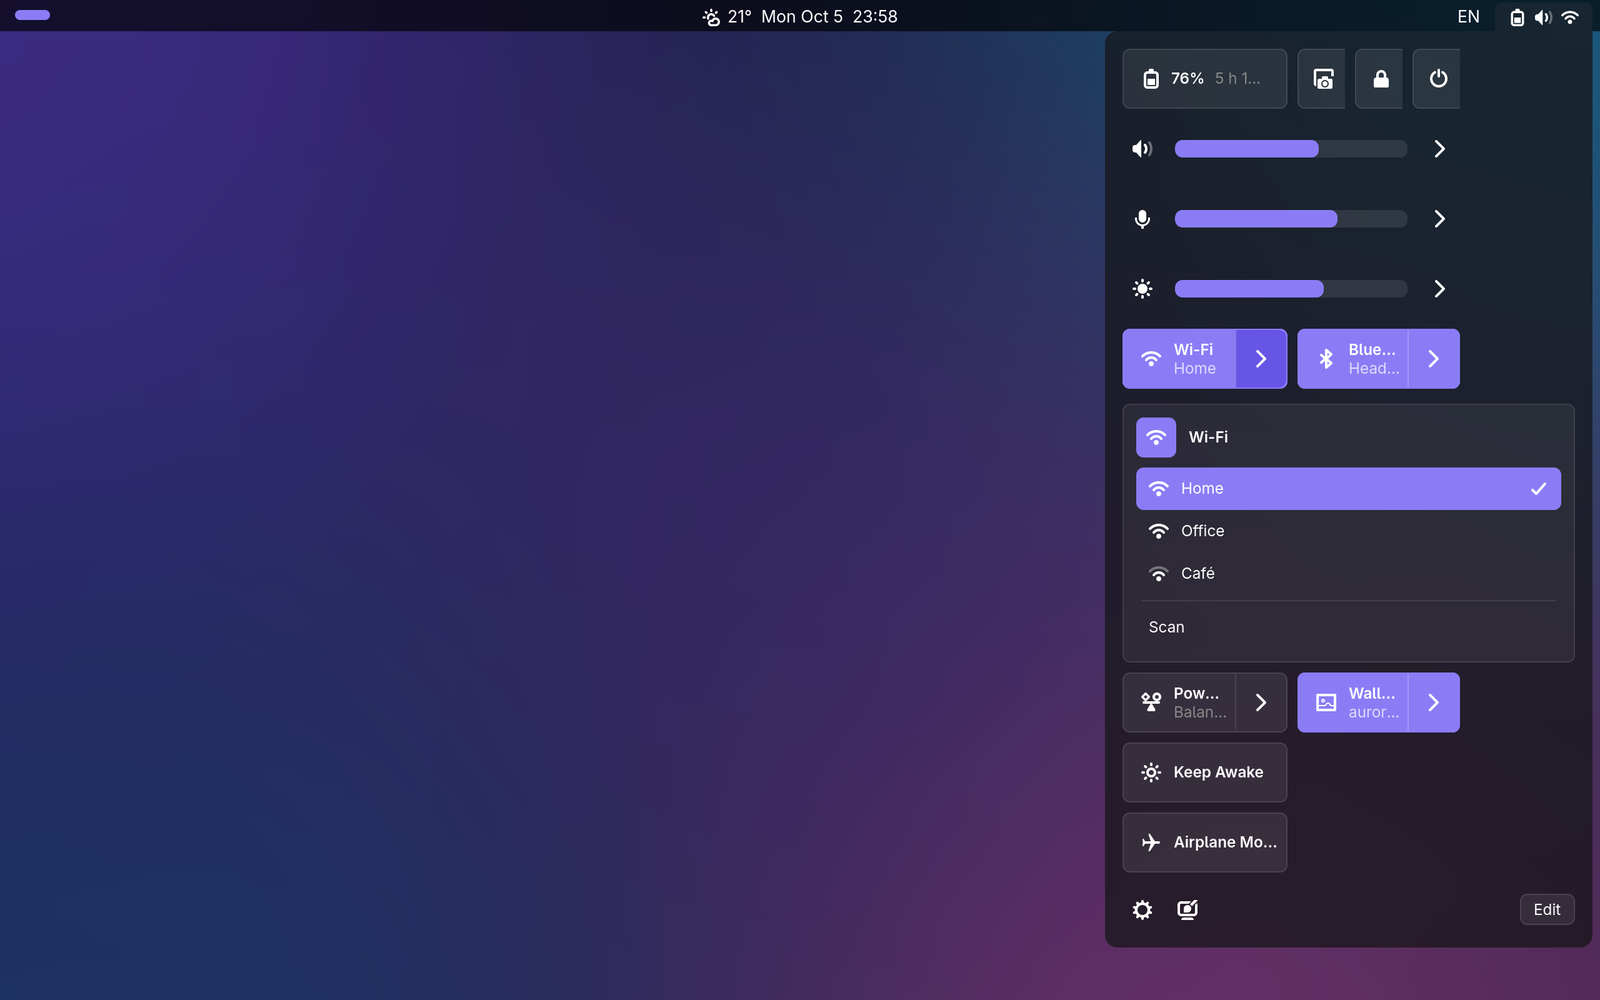
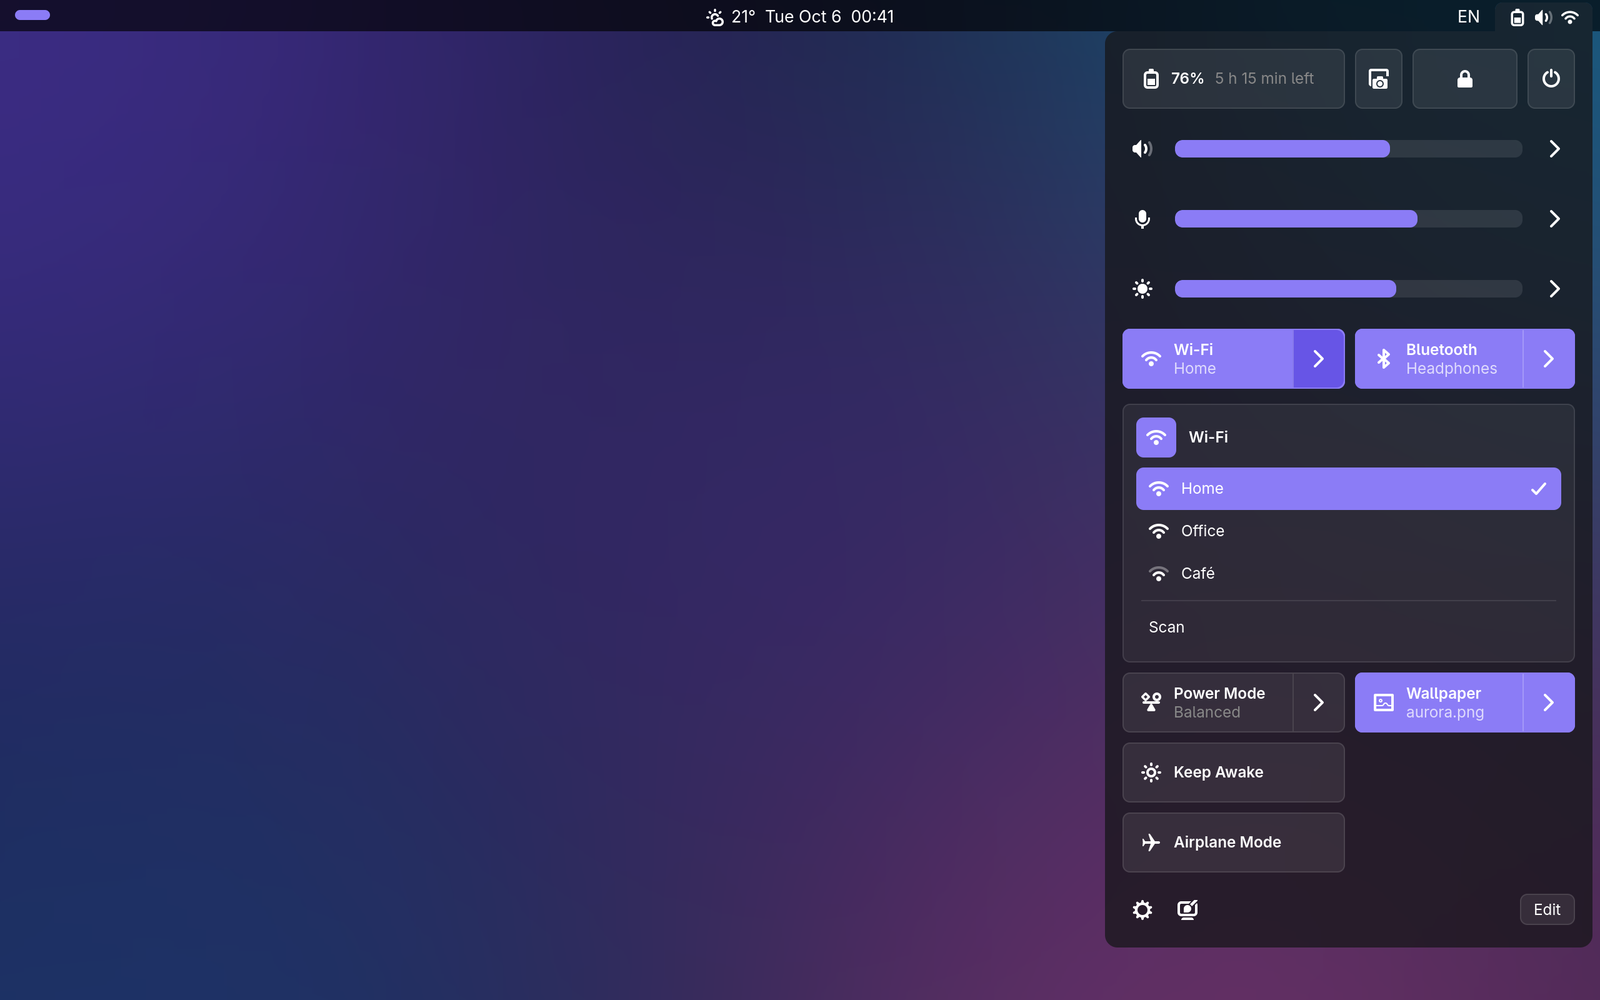
fix(panels): a layout as wide as the panel's cells (a width set no longer taken for its default layout's), Never on the panel, the bar as бар, the bubble over the knob

diff --git a/src/cc/mod.rs b/src/cc/mod.rs
@@ -253,7 +253,6 @@ impl Spec {
                 self.width = w;
                 self.fixed = true;
             }
-            self.cols = c.cols.map_or(self.cols, |n| n.clamp(MIN_COLS, MAX_COLS));
         }
         self
     }
@@ -739,7 +738,8 @@ impl Panel {
         for (b, bx) in &bands {
             fit_band(bx.upcast_ref());
             self.grid.attach(bx, 0, *b as i32 + above(*b, false), self.cols.get() as i32, 1);
-        }    }
+        }
+    }
 
     /// One widget's menu unfolded, the others folded ("" all).
     fn set_open(&self, key: &str) {
@@ -992,19 +992,30 @@ impl Panel {
             });
             line("In the bar", chips.upcast_ref());
         }
-        // on the panel always, or only while its widget is active
+        // on the panel always, only while its widget is active, or never (its badge in the bar alone)
         let has_face = self.tiles.borrow().get(&key).is_some_and(|t| t.widget.face.is_some());
-        if !off && has_face {
-            let now = usize::from(self.lively.borrow().contains(&key));
+        if has_face {
+            let now = if off { 2 } else { usize::from(self.lively.borrow().contains(&key)) };
             let (me, k) = (Rc::downgrade(self), key.clone());
-            let chips = crate::ui::chips(&[t("Always"), t("While active")], Some(now), move |i| {
+            let chips = crate::ui::chips(&[t("Always"), t("While active"), t("Never")], Some(now), move |i| {
                 let Some(p) = me.upgrade() else { return };
-                if i == 1 {
-                    p.lively.borrow_mut().insert(k.clone());
+                let hidden = p.hidden.borrow().iter().any(|h| h.key == k);
+                if i == 2 {
+                    if !hidden {
+                        p.hide(&k);
+                    }
                 } else {
-                    p.lively.borrow_mut().remove(&k);
+                    if hidden {
+                        p.unhide(&k);
+                    }
+                    if i == 1 {
+                        p.lively.borrow_mut().insert(k.clone());
+                    } else {
+                        p.lively.borrow_mut().remove(&k);
+                    }
                 }
-                p.inspect();
+                // still picked, the inspector as it is now
+                p.pick(&k);
             });
             line("On the panel", chips.upcast_ref());
         }
@@ -1035,12 +1046,6 @@ impl Panel {
             });
             crate::ui::flow_in(&acts, &b);
         };
-        let k = key.clone();
-        if off {
-            act("Back on the Panel", Box::new(move |p| p.unhide(&k)));
-        } else if self.tiles.borrow().get(&key).is_some_and(|t| t.widget.face.is_some()) {
-            act("In the Bar Only", Box::new(move |p| p.hide(&k)));
-        }
         let k = key.clone();
         act("Remove", Box::new(move |p| p.remove(&k)));
         self.inspector.append(&acts);

diff --git a/src/popup.rs b/src/popup.rs
@@ -313,17 +313,21 @@ fn hover_tips(host: &Rc<Host>) {
     host.win.add_controller(motion);
 }
 
-/// Over a widget in a bar's window (a slider's knob), centred, the text in a bubble; None: the bubble gone. Drawn
-/// in the window itself, over what clips the widget (a tile), as the hovers are.
-pub fn bubble(over: &gtk4::Widget, text: Option<&str>) {
+/// Over a widget in a bar's window (a slider's track), at frac of its width from its left, the text in a bubble;
+/// None: the bubble gone. Drawn in the window itself, over what clips the widget (a tile), as the hovers are.
+pub fn bubble(over: &gtk4::Widget, frac: f64, text: Option<&str>) {
     let hosts: Vec<Rc<Host>> = HOSTS.with(|h| h.borrow().iter().filter_map(Weak::upgrade).collect());
     let Some(root) = over.root() else { return };
     let Some(host) = hosts.into_iter().find(|h| h.win.upcast_ref::<gtk4::Widget>() == root.upcast_ref::<gtk4::Widget>()) else { return };
     let b = &host.bubble;
     let (Some(text), Some(at)) = (text, over.compute_bounds(&host.win)) else { return b.set_visible(false) };
     b.set_text(text);
+    // measured shown: a hidden widget asks for nothing
+    b.set_visible(true);
     let (_, nat) = b.preferred_size();
-    let x = (at.x() + at.width() / 2.0) as i32 - nat.width() / 2;
+    // the knob's travel inside the track's rounded ends
+    let inset = (at.height() / 2.0).max(4.0) as f64;
+    let x = (at.x() as f64 + inset + (at.width() as f64 - 2.0 * inset) * frac.clamp(0.0, 1.0)) as i32 - nat.width() / 2;
     b.set_margin_start(x.clamp(0, (host.win.width() - nat.width()).max(0)));
     b.set_margin_top((at.y() as i32 - nat.height() - 6).max(0));
     b.set_visible(true);

diff --git a/src/ui.rs b/src/ui.rs
@@ -389,17 +389,19 @@ impl Slider {
             let v = on_step(v);
             sc.set_value(v);
             moved(v);
-            // the bubble over its knob, gone a moment after the last move
-            if let Some(knob) = knob(sc) {
-                crate::popup::bubble(&knob, Some(&w(v)));
+            // the bubble over its knob (where the value puts it along the track: GTK's knob node has no bounds of
+            // its own to go by), gone a moment after the last move
+            if let Some(trough) = sc.first_child() {
+                let frac = if max > min { (v - min) / (max - min) } else { 0.0 };
+                crate::popup::bubble(&trough, frac, Some(&w(v)));
                 if let Some(id) = hide.borrow_mut().take() {
                     id.remove();
                 }
-                let (h, k) = (hide.clone(), knob.downgrade());
+                let (h, k) = (hide.clone(), trough.downgrade());
                 *hide.borrow_mut() = Some(glib::timeout_add_local_once(Duration::from_millis(900), move || {
                     h.borrow_mut().take();
                     if let Some(k) = k.upgrade() {
-                        crate::popup::bubble(&k, None);
+                        crate::popup::bubble(&k, 0.0, None);
                     }
                 }));
             }

diff --git a/src/style.rs b/src/style.rs
@@ -150,7 +150,7 @@ button.tile-remove image { color: @fg; -gtk-icon-size: 12px; }
 .clock { padding: 0 14px; }
 .surface label.clock-time { font-size: 20pt; font-weight: 600; }
 /* the tiles as tall as the density's rows (look.rs), not their own */
-.cc .toggle, .cc button.round { min-height: 0; }
+.cc .tile .toggle, .cc .tile button.round { min-height: 0; min-width: 0; }
 
 /* the control centre's pages (Appearance, Settings): a header with its back arrow; a form's fields, the title
    over its help, the control beside or under them; the themes' cards, the accents' swatches */
